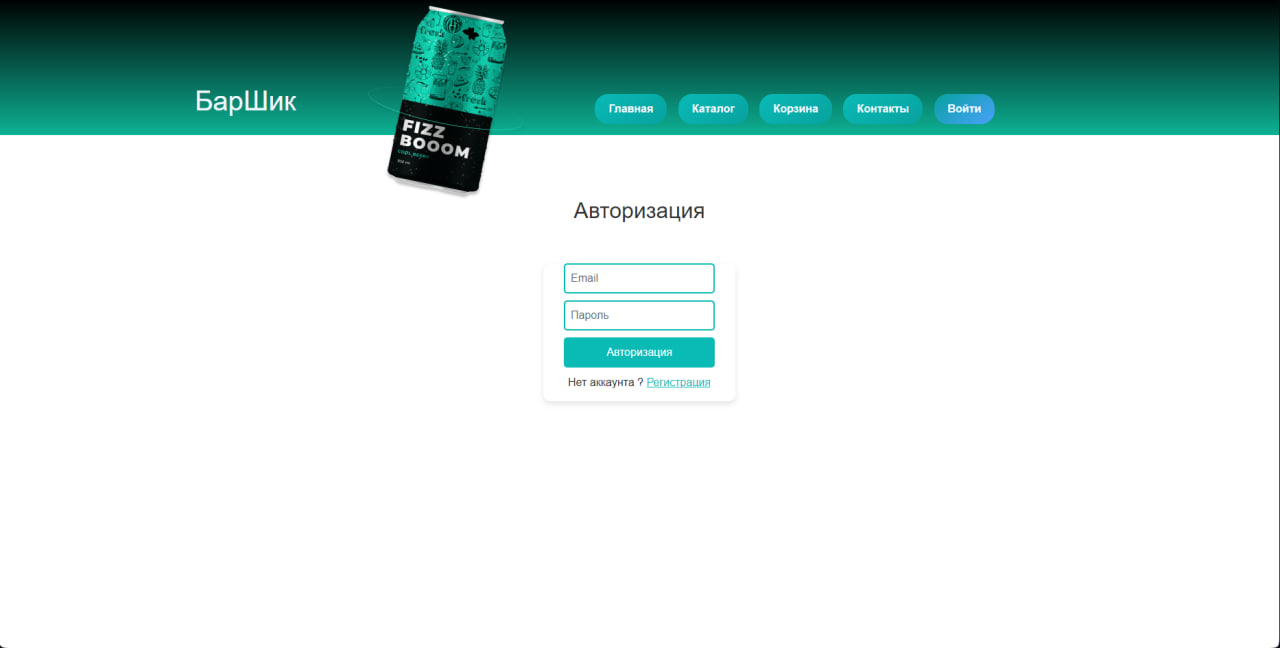
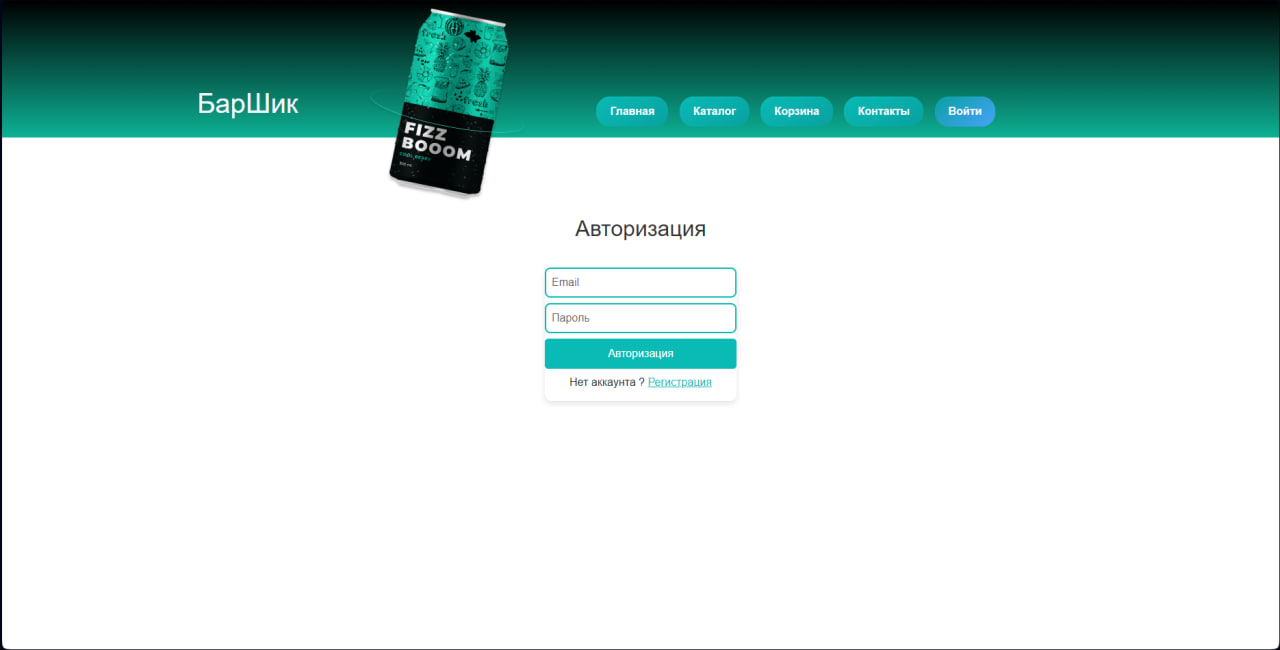
Изменен дизайн авторизации и регистрации - вынесен отдельный css для форм

diff --git a/design/css/reg/style.css b/design/css/reg/style.css
@@ -1,0 +1,53 @@
+.form-reg {
+    width: 100%;
+    max-width: 393px;
+    margin: 140px auto;
+    background: white;
+    border-radius: 10px;
+    box-shadow: 0 4px 8px rgba(0, 0, 0, 0.1);
+}
+/* 
+.form-reg h2 {
+    text-align: center;
+    margin-bottom: 20px;
+    color: #333;
+} */
+
+.form-reg input {
+    margin-bottom: 10px;
+    border-radius: 5px;
+    border: 1px solid #ced4da;
+    padding: 10px;
+    width: 100%;
+}
+
+.form-reg button {
+    width: 100%;
+    padding: 10px;
+    border-radius: 5px;
+    border: none;
+    background-color: #0abab5;
+    color: white;
+    font-size: 16px;
+    cursor: pointer;
+    transition: background-color 0.3s ease;
+}
+
+.form-reg button:hover {
+    background-color: #089a9a;
+}
+
+.form-reg p {
+    text-align: center;
+    margin-top: 15px;
+    font-size: 14px;
+}
+
+.form-reg p a {
+    color: #0abab5;
+    text-decoration: none;
+}
+
+.form-reg p a:hover {
+    text-decoration: underline;
+}

diff --git a/design/css/auth/style.css b/design/css/auth/style.css
@@ -1,0 +1,31 @@
+.form-auto {
+    max-width: 300px;
+    margin: 30px auto;
+    padding: 0px;
+    background: white;
+    border-radius: 10px;
+    box-shadow: 0 4px 8px rgba(0, 0, 0, 0.1);
+}
+.form-auto input, .form-auto button {
+    width: 100%;
+    margin-bottom: 8px;
+}
+.form-auto input {
+    border: 2px solid #0abab5;
+    padding: 8px;
+    border-radius: 8px;
+}
+.form-auto button {
+    background-color: #0abab5;
+    color: white;
+    padding: 10px;
+    border: none;
+    border-radius: 5px;
+    cursor: pointer;
+}
+.form-auto button:hover {
+    background-color: #08a2a0;
+}
+.form-auto a {
+    color: #0abab5;
+}

diff --git a/design/css/style.css b/design/css/style.css
@@ -223,7 +223,7 @@ footer{
     flex-direction: column;
     width: 15%;
     justify-content: space-evenly;
-    height: 200px;
+    height: 195px;
     border-radius: 10px;
     align-items: center;
 } 
@@ -248,7 +248,7 @@ footer{
     flex-direction: column;
     width: 15%;
     justify-content: space-evenly;
-    height: 164px;
+    height: 152px;
     border-radius: 10px;
 
 }

diff --git a/user/auth/reg.php b/user/auth/reg.php
@@ -4,67 +4,10 @@
     <meta charset="UTF-8">
     <meta name="viewport" content="width=device-width, initial-scale=1.0">
     <link rel="stylesheet" href="../../design/css/style.css">
+    <link rel="stylesheet" href="../../design/css/reg/style.css">
     <link href="https://cdn.jsdelivr.net/npm/bootstrap@5.3.2/dist/css/bootstrap.min.css" rel="stylesheet" integrity="sha384-T3c6CoIi6uLrA9TneNEoa7RxnatzjcDSCmG1MXxSR1GAsXEV/Dwwykc2MPK8M2HN" crossorigin="anonymous">
     <script src="https://cdn.jsdelivr.net/npm/bootstrap@5.3.2/dist/js/bootstrap.bundle.min.js" integrity="sha384-C6RzsynM9kWDrMNeT87bh95OGNyZPhcTNXj1NW7RuBCsyN/o0jlpcV8Qyq46cDfL" crossorigin="anonymous"></script>
     <title>Регистрация</title>
-    <style>
-        
-
-        .form-reg {
-            width: 100%;
-            max-width: 393px;
-            padding: 69px;
-            margin: 200px auto;
-            background: white;
-            border-radius: 10px;
-            box-shadow: 0 4px 8px rgba(0, 0, 0, 0.1);
-        }
-
-        .form-reg h2 {
-            text-align: center;
-            margin-bottom: 20px;
-            color: #333;
-        }
-
-        .form-reg input {
-            margin-bottom: 10px;
-            border-radius: 5px;
-            border: 1px solid #ced4da;
-            padding: 10px;
-            width: 100%;
-        }
-
-        .form-reg button {
-            width: 100%;
-            padding: 10px;
-            border-radius: 5px;
-            border: none;
-            background-color: #0abab5;
-            color: white;
-            font-size: 16px;
-            cursor: pointer;
-            transition: background-color 0.3s ease;
-        }
-
-        .form-reg button:hover {
-            background-color: #089a9a;
-        }
-
-        .form-reg p {
-            text-align: center;
-            margin-top: 15px;
-            font-size: 14px;
-        }
-
-        .form-reg p a {
-            color: #0abab5;
-            text-decoration: none;
-        }
-
-        .form-reg p a:hover {
-            text-decoration: underline;
-        }
-    </style>
 </head>
 <body>
     <?php include "../../header.php"; ?>

diff --git a/user/auth/auth.php b/user/auth/auth.php
@@ -4,41 +4,12 @@
     <meta charset="UTF-8">
     <meta name="viewport" content="width=device-width, initial-scale=1.0">
     <link rel="stylesheet" href="../../design/css/style.css">
+    <link rel="stylesheet" href="../../design/css/auth/style.css">
     <link href="https://cdn.jsdelivr.net/npm/bootstrap@5.3.2/dist/css/bootstrap.min.css" rel="stylesheet" integrity="sha384-T3c6CoIi6uLrA9TneNEoa7RxnatzjcDSCmG1MXxSR1GAsXEV/Dwwykc2MPK8M2HN" crossorigin="anonymous">
     <script src="https://cdn.jsdelivr.net/npm/bootstrap@5.3.2/dist/js/bootstrap.bundle.min.js" integrity="sha384-C6RzsynM9kWDrMNeT87bh95OGNyZPhcTNXj1NW7RuBCsyN/o0jlpcV8Qyq46cDfL" crossorigin="anonymous"></script>
     <title>Авторизация</title>
     <style>
-        .form-auto {
-            max-width: 300px;
-            margin: 50px auto;
-            padding: 30px;
-            background: white;
-            border-radius: 10px;
-            box-shadow: 0 4px 8px rgba(0, 0, 0, 0.1);
-        }
-        .form-auto input, .form-auto button {
-            width: 100%;
-            margin-bottom: 10px;
-        }
-        .form-auto input {
-            border: 2px solid #0abab5;
-            padding: 8px;
-            border-radius: 5px;
-        }
-        .form-auto button {
-            background-color: #0abab5;
-            color: white;
-            padding: 10px;
-            border: none;
-            border-radius: 5px;
-            cursor: pointer;
-        }
-        .form-auto button:hover {
-            background-color: #08a2a0;
-        }
-        .form-auto a {
-            color: #0abab5;
-        }
+        
     </style>
 </head>
 <body>

diff --git a/admin/index_admin.php b/admin/index_admin.php
@@ -17,12 +17,16 @@ if ($result) {
 $categoryQuery = "SELECT Category_id, Name FROM Category";
 $categoriesResult = $mysqli->query($categoryQuery);
 $categories = [];
+$categoryOptions = ''; // Инициализация строки для HTML-опций
 if ($categoriesResult) {
     while ($cat = $categoriesResult->fetch_assoc()) {
         $categories[$cat['Category_id']] = $cat['Name'];
+        // Создаем HTML-опцию для каждой категории
+        $categoryOptions .= '<option value="' . $cat['Category_id'] . '">' . htmlspecialchars($cat['Name']) . '</option>';
     }
 }
 ?>
+
 
 <!DOCTYPE html>
 <html lang="ru">
